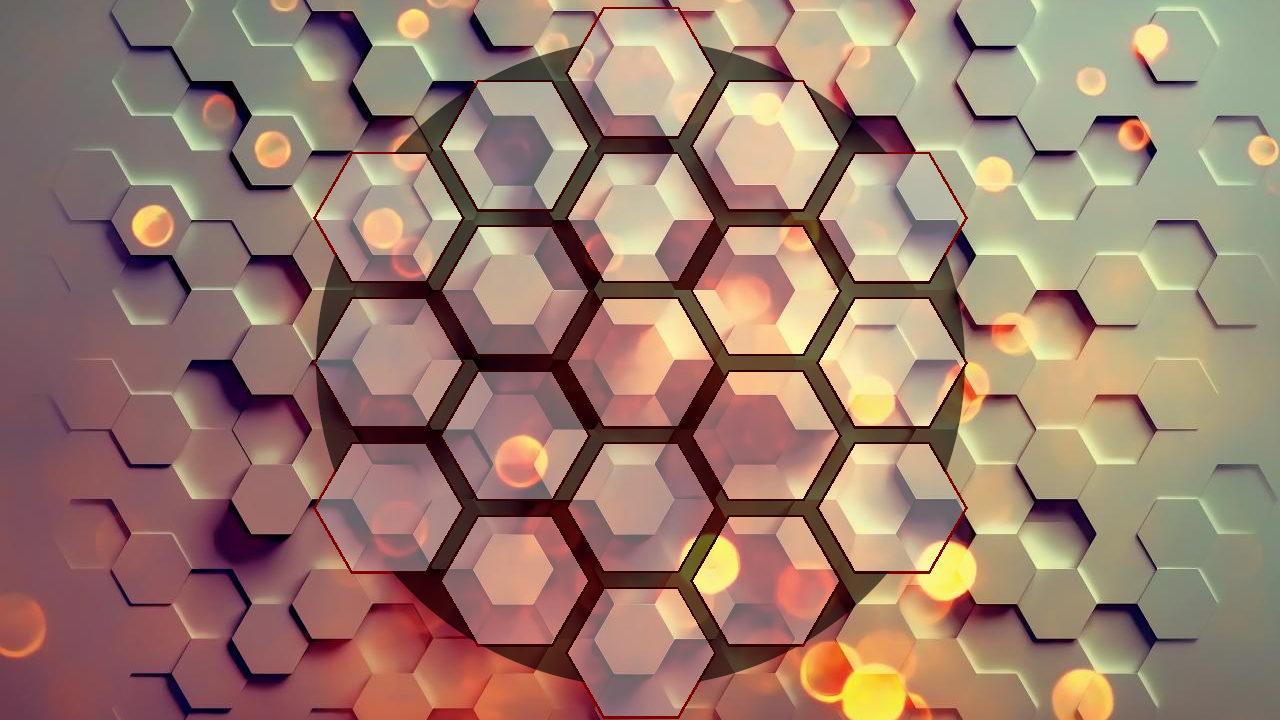
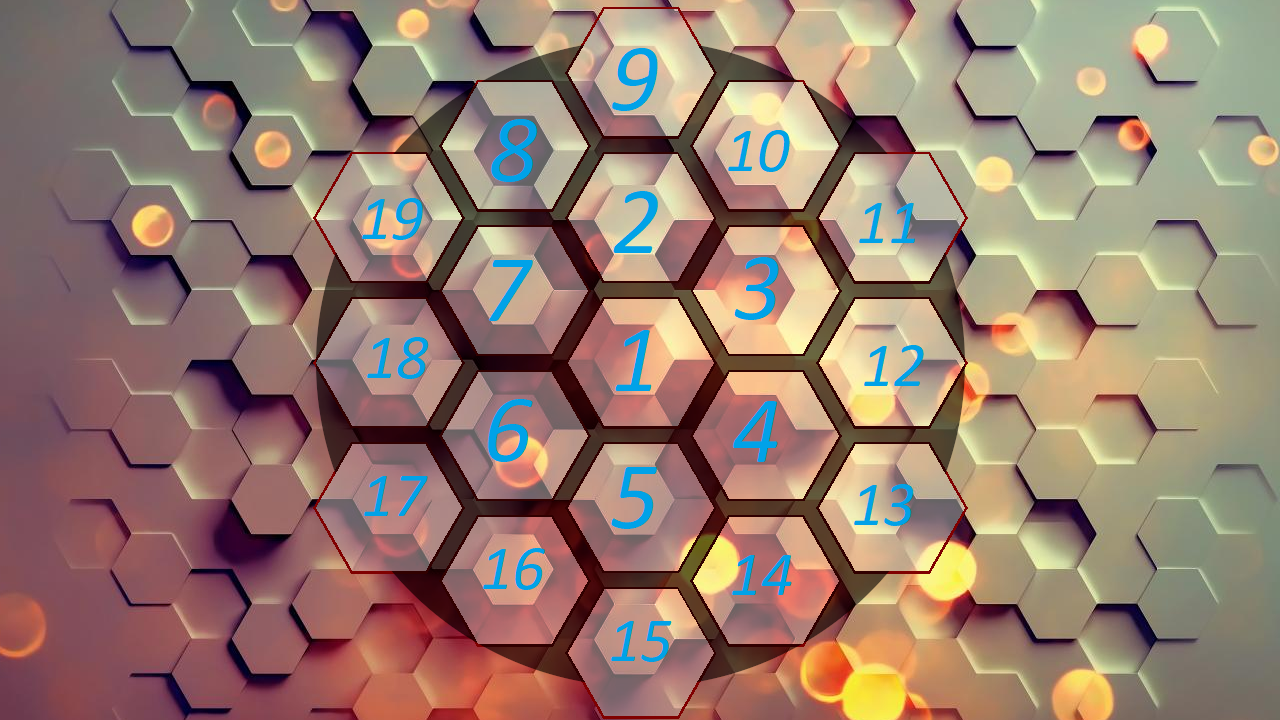
Thanatos и наёмники
Еще одна фанатская армия и немного неотесанная возможность попользоваться наёмниками. Они вылетают пока что в центр пока их счетчик взятых карт где-то скраю. Оставлю карту пронумерованной так удобнее.  И наёмников брать неудобно, надо лазить в код - постараюсь найти на это время.

diff --git a/неур/neuro.py b/неур/neuro.py
@@ -1,23 +1,31 @@
 import os,sys, random
 import pygame as pg
-armyDict = {'sandrunners': {'bghq':'01', 'hq': 1,'how': {5: 1, 13: 2, 16: 3, 17: 5}},
-			'dancer': {'hq': 3, 'how': {4: 10, 5: 8, 7: 7}},
-			'borgo': {'how': {4: 1, 8: 2, 9: 3, 11: 4, 13: 6}},
-			'ddm': {'how': {6: 1, 14: 2, 16: 4, 17: 5}},
-			'deathbreath': {'how': {7: 1, 11: 2, 15: 3, 16: 8}},
-			'hegemony': {'how': {8: 1, 11: 2, 15: 3, 16: 4, 17: 5}},
-			'mephisto': {'how': {6: 1, 14: 2, 17: 3, 18: 4}},
-			'iron_gang': {'how': {2: 1, 3: 2, 6: 3, 8: 4, 9: 5, 10: 9}},#, 11: 1}},
-			'mississippi': {'how': {8: 1, 13: 2, 16: 3, 18: 4}},
-			'moloch': {'how': {16: 1, 21: 2, 22: 4, 23: 5}},
-			'neojungle': {'how': {8: 1, 13: 2, 16: 3, 18: 4}},
-			'newyork': {'how': {10: 1, 20: 2, 21: 5}},
-			'outpost': {'how': {9: 1, 13: 2, 14: 5, 15: 6, 16: 7}},
-			'begemoths': {'how': {4: 1, 9: 2, 13: 3, 14: 4, 15: 5}},
-			'smart': {'how': {6: 1, 12: 2, 15: 3, 17: 4}},
-			'steelpolice': {'how': {9: 1, 15: 2, 18: 3, 19: 5}},
-			'uranopolis': {'how': {13: 1, 17: 2, 19: 3, 21: 4}},
-			'vegas': {'how': {4: 1, 11: 2, 15: 3, 16: 5}}}
+armyDict = {'sandrunners': {'bghq':'01', 'hq': 1,
+			5: 1, 13: 2, 16: 3, 17: 5},
+			'dancer': {'hq': 3,
+			4: 10, 5: 8, 7: 7},
+			'borgo': {4: 1, 8: 2, 9: 3, 11: 4, 13: 6},
+			'ddm': {6: 1, 14: 2, 16: 4, 17: 5},
+			'deathbreath': {7: 1, 11: 2, 15: 3, 16: 8},
+			'hegemony': {8: 1, 11: 2, 15: 3, 16: 4, 17: 5},
+			'mephisto': {6: 1, 14: 2, 17: 3, 18: 4},
+			'iron_gang': {2: 1, 3: 2, 6: 3, 8: 4, 9: 5, 10: 9},#, 11: 1},
+			'mississippi': {8: 1, 13: 2, 16: 3, 18: 4},
+			'moloch': {16: 1, 21: 2, 22: 4, 23: 5},
+			'neojungle': {8: 1, 13: 2, 16: 3, 18: 4},
+			'newyork': {10: 1, 20: 2, 21: 5},
+			'outpost': {9: 1,13: 2, 14: 5, 15: 6, 16: 7},
+			'begemoths': {4: 1, 9: 2, 13: 3, 14: 4, 15: 5},
+			'smart': {6: 1, 12: 2, 15: 3, 17: 4},
+			'steelpolice': {9: 1, 15: 2, 18: 3, 19: 5},
+			'uranopolis': {13: 1, 17: 2, 19: 3, 21: 4},
+			'vegas': {4: 1, 11: 2, 15: 3, 16: 5},
+			'Thanatos':{7: 1, 13: 2, 15: 3, 16: 4, 17: 6},
+			
+
+			#\/найм должен быть в конце
+			'найм':{4: 1, 6: 0, 7: 1}
+			}
 
 game_folder = os.path.dirname(__file__)  # настройка папки ассетов
 img_folder = os.path.join(game_folder, 'img')
@@ -43,8 +51,11 @@ colorArmy = {'sandrunners': (237,76,35),
 			'smart': (213,213,213),
 			'steelpolice': (145,70,150),
 			'uranopolis': (101,100,101),
-			'vegas': (170,99,36)}
+			'vegas': (170,99,36),
+			'Thanatos': (246,113,0),
+			}
 
+hexMore = 1.05 #что бы гексы чуть заходили на друг друга на поле
 size = sizeDict[0]
 sumInH = 5
 hexh = int(size[1]/9.9)
@@ -158,7 +169,7 @@ elif r > 3: l[2], l[3] = l[3], l[2]
 ArmyList = l[:r]
 for i in range(len(ArmyList)):
 	if not ArmyList[i] in armyDict:
-		ArmyList[i] = armyDictList.pop(random.randrange(len(armyDictList)))
+		ArmyList[i] = armyDictList.pop(random.randrange(len(armyDictList)-1))
 if map27 == '':
 	sumInH = 6
 else:
@@ -189,7 +200,7 @@ class hex:
 		if startImage:
 			self.image = startImage
 		else:
-			self.image = pg.transform.scale(self.image_orig, (int(hexw*1.1),int(hexh*1.1)))
+			self.image = pg.transform.scale(self.image_orig, (int(hexw*hexMore),int(hexh*hexMore)))
 		self.rect = self.image.get_rect() # прямоугольник вокруг image
 		# pg.draw.circle(self.image, (255,0,0), self.rect.center, self.radius)
 	def zoom(self):
@@ -246,7 +257,7 @@ class hex:
 		i.image_orig, i.image_bg = i.image_bg, i.image_orig
 		i.rotate(0)
 
-	def rotate(self, r=60, w = int(hexw*1.1), h = int(hexh*1.1)):
+	def rotate(self, r=60, w = int(hexw*hexMore), h = int(hexh*hexMore)):
 		self.rot = (self.rot + r) % 360
 		old_center = self.rect.center
 		self.image = pg.transform.rotate(self.image_orig, self.rot)
@@ -259,7 +270,6 @@ class hex:
 		self.image = pg.transform.scale(self.image, sz)
 		self.rect = self.image.get_rect()
 		self.rect.center = old_center
-
 
 def main(Surface, AllUnits):
 	game_event_loop(AllUnits) #цикл игровых событий
@@ -316,18 +326,18 @@ def game_event_loop(a):
 				i.click = False
 				if i.z: i.zoom()
 		elif event.type == pg.QUIT:
-			for n in A:
-				print(n[0].nameArmy)
-				print('notake:')
-				units_no_take = sorted([i.numberUnit for i in n if i.notake])
-				print(units_no_take)
-				d = {}
-				for q in units_no_take:
-					if not q in d:
-						d[q] = units_no_take.count(q)
-				print(d,'\ntake:')
-				units_take = sorted([i.numberUnit for i in n if not i.notake])
-				print(units_take)
+			# for n in A: #на тот случай если займусь сохранениями
+				# print(n[0].nameArmy)
+				# print('notake:')
+				# units_no_take = sorted([i.numberUnit for i in n if i.notake])
+				# print(units_no_take)
+				# d = {}
+				# for q in units_no_take:
+				# 	if not q in d:
+				# 		d[q] = units_no_take.count(q)
+				# print(d,'\ntake:')
+				# units_take = sorted([i.numberUnit for i in n if not i.notake])
+				# print(units_take)
 				# d = {}
 				# for q in units_take:
 				# 	if not q in d:
@@ -353,35 +363,39 @@ def addarmies(t, n = 0):
 	bghq = d['bghq'] if 'bghq' in d else 0 #задник базы
 	hq = d['hq'] if 'hq' in d else 1 #количество баз
 	f = os.path.join(img_folder, t) #папка армии
-	d = d['how'] #инструкция построения армии относительно нумерации картинок
 	A = [] #лист для армии
 	bg = pgil(f, "0.png") #задник армии
-	bgTransform = pg.transform.scale(bg, (int(hexw*1.1),int(hexh*1.1)))
-	for i in range(hq + 1, max(d)+1):
+	bgTransform = pg.transform.scale(bg, (int(hexw*hexMore),int(hexh*hexMore)))
+	for i in range(hq + 1, max([i for i in d if type(i)==int])+1):
 		img = pgil(f, f"{i}.png")
-		for x in d:
+		for x in [i for i in d if type(i)==int]:
 			if i <= x:
 				a = d[x]
 				break
 		A += [hex(bg, img, bgTransform, t, i) for n in range(a)]#Добавляю бойцов
-	random.shuffle(A) # перемешал
+	if t != 'найм':
+		random.shuffle(A) # перемешал
 	if bghq:
 		bg = pgil(f, f"{bghq}.png") #достал картинку задника базы
 		bgTransform = 0
 	for i in range(1, hq+1): #пройтись по базам
 		A += [hex(bg,pgil(f, f"{i}.png"), bgTransform, t)] #инициализация объекта
-		A[-1].hp = {1: 20, 3: 10}[hq]#выдать здоровье по кол-ву баз
+		if t != 'найм':
+			A[-1].hp = {1: 20, 3: 10}[hq]#выдать здоровье по кол-ву баз
 
-
-	x = hexw//3
-	y = hexh//2
-	if n:
-		if n % 2:
-			x = size[0] - x
-		if 4 > n > 1:
-			y = size[1] - y
-		elif n > 3:
-			y = center[1]
+	if t == 'найм':
+		x = center[0]
+		y = center[1]
+	else:
+		x = hexw//3
+		y = hexh//2
+		if n:
+			if n % 2:
+				x = size[0] - x
+			if 4 > n > 1:
+				y = size[1] - y
+			elif n > 3:
+				y = center[1]
 
 	for i in A:
 		i.rect.center = (x, y)#Определяю место
